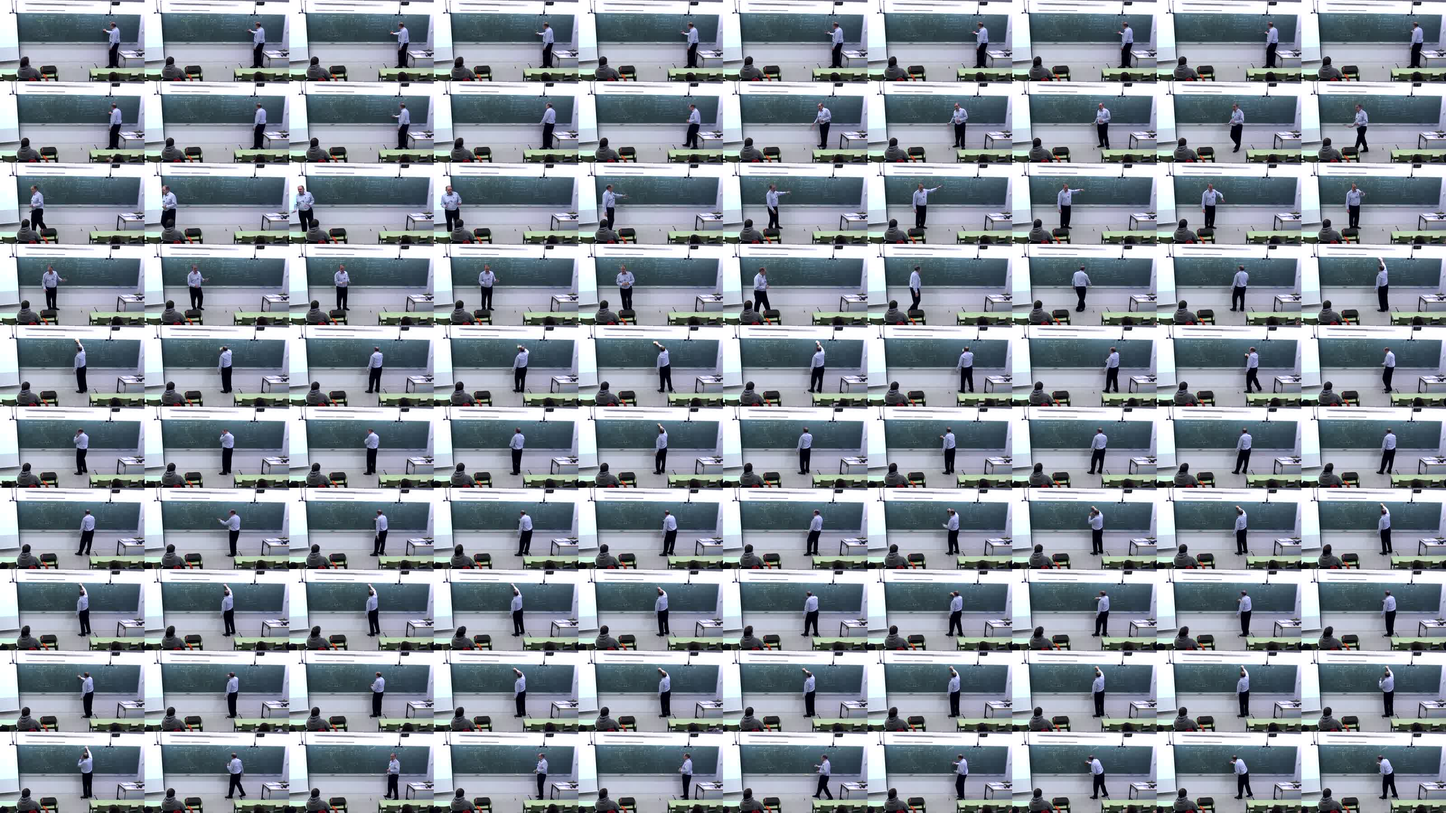
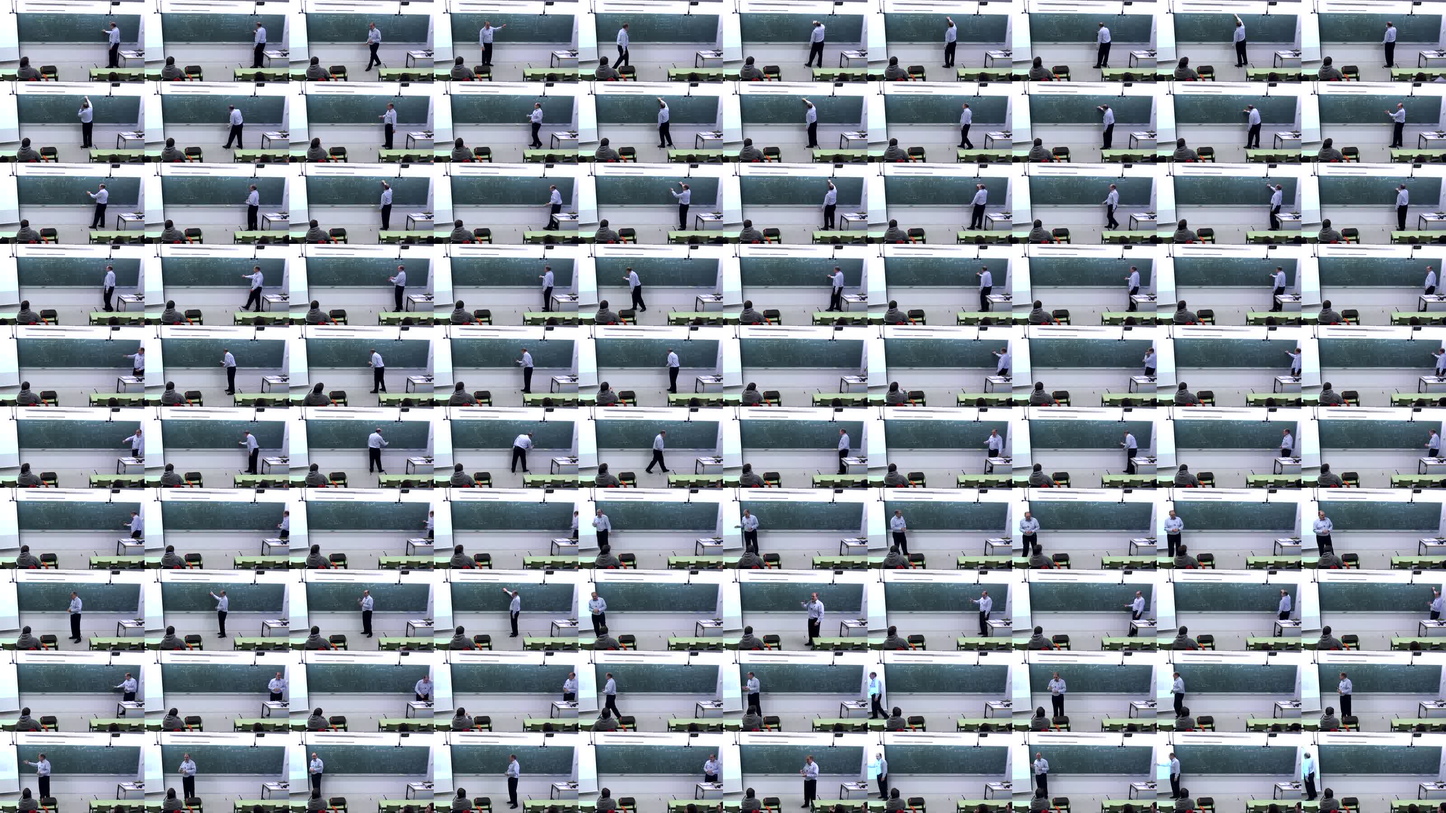
Fix timeline thumbnail selection
Fixes #75

diff --git a/repos/paella-core/src/js/core/ManifestParser.ts b/repos/paella-core/src/js/core/ManifestParser.ts
@@ -383,7 +383,14 @@ export default class ManifestParser {
                 const rows = this._metadata.timeline.rows;
                 const cols = this._metadata.timeline.cols;
                 const total = rows * cols;
-                const index = Math.floor((time / duration) * total);
+                if (!Number.isFinite(time) || !Number.isFinite(duration) || duration <= 0) {
+                    return null;
+                }
+                // Sample rows * cols frames across the same duration used for playback.
+                // FFmpeg fills the grid left to right, then top to bottom. For 10x10:
+                // duration=$(ffprobe -v error -show_entries format=duration -of default=noprint_wrappers=1:nokey=1 video.mp4)
+                // ffmpeg -i video.mp4 -vf "fps=100/${duration}:start_time=0:round=up,scale=320:180,tile=10x10" -frames:v 1 timeline.jpg
+                const index = Math.min(total - 1, Math.max(0, Math.floor((time / duration) * total)));
                 const row = Math.floor(index / cols);
                 const col = index % cols;
                 const canvas = document.createElement('canvas');
@@ -393,7 +400,7 @@ export default class ManifestParser {
                 canvas.height = height;
                 const ctx = canvas.getContext('2d');
                 ctx!.drawImage(this._timelineImage,
-                    width * row, height * col, width, height, 0, 0, width, height
+                    width * col, height * row, width, height, 0, 0, width, height
                 );
                 return canvas.toDataURL();
             }
